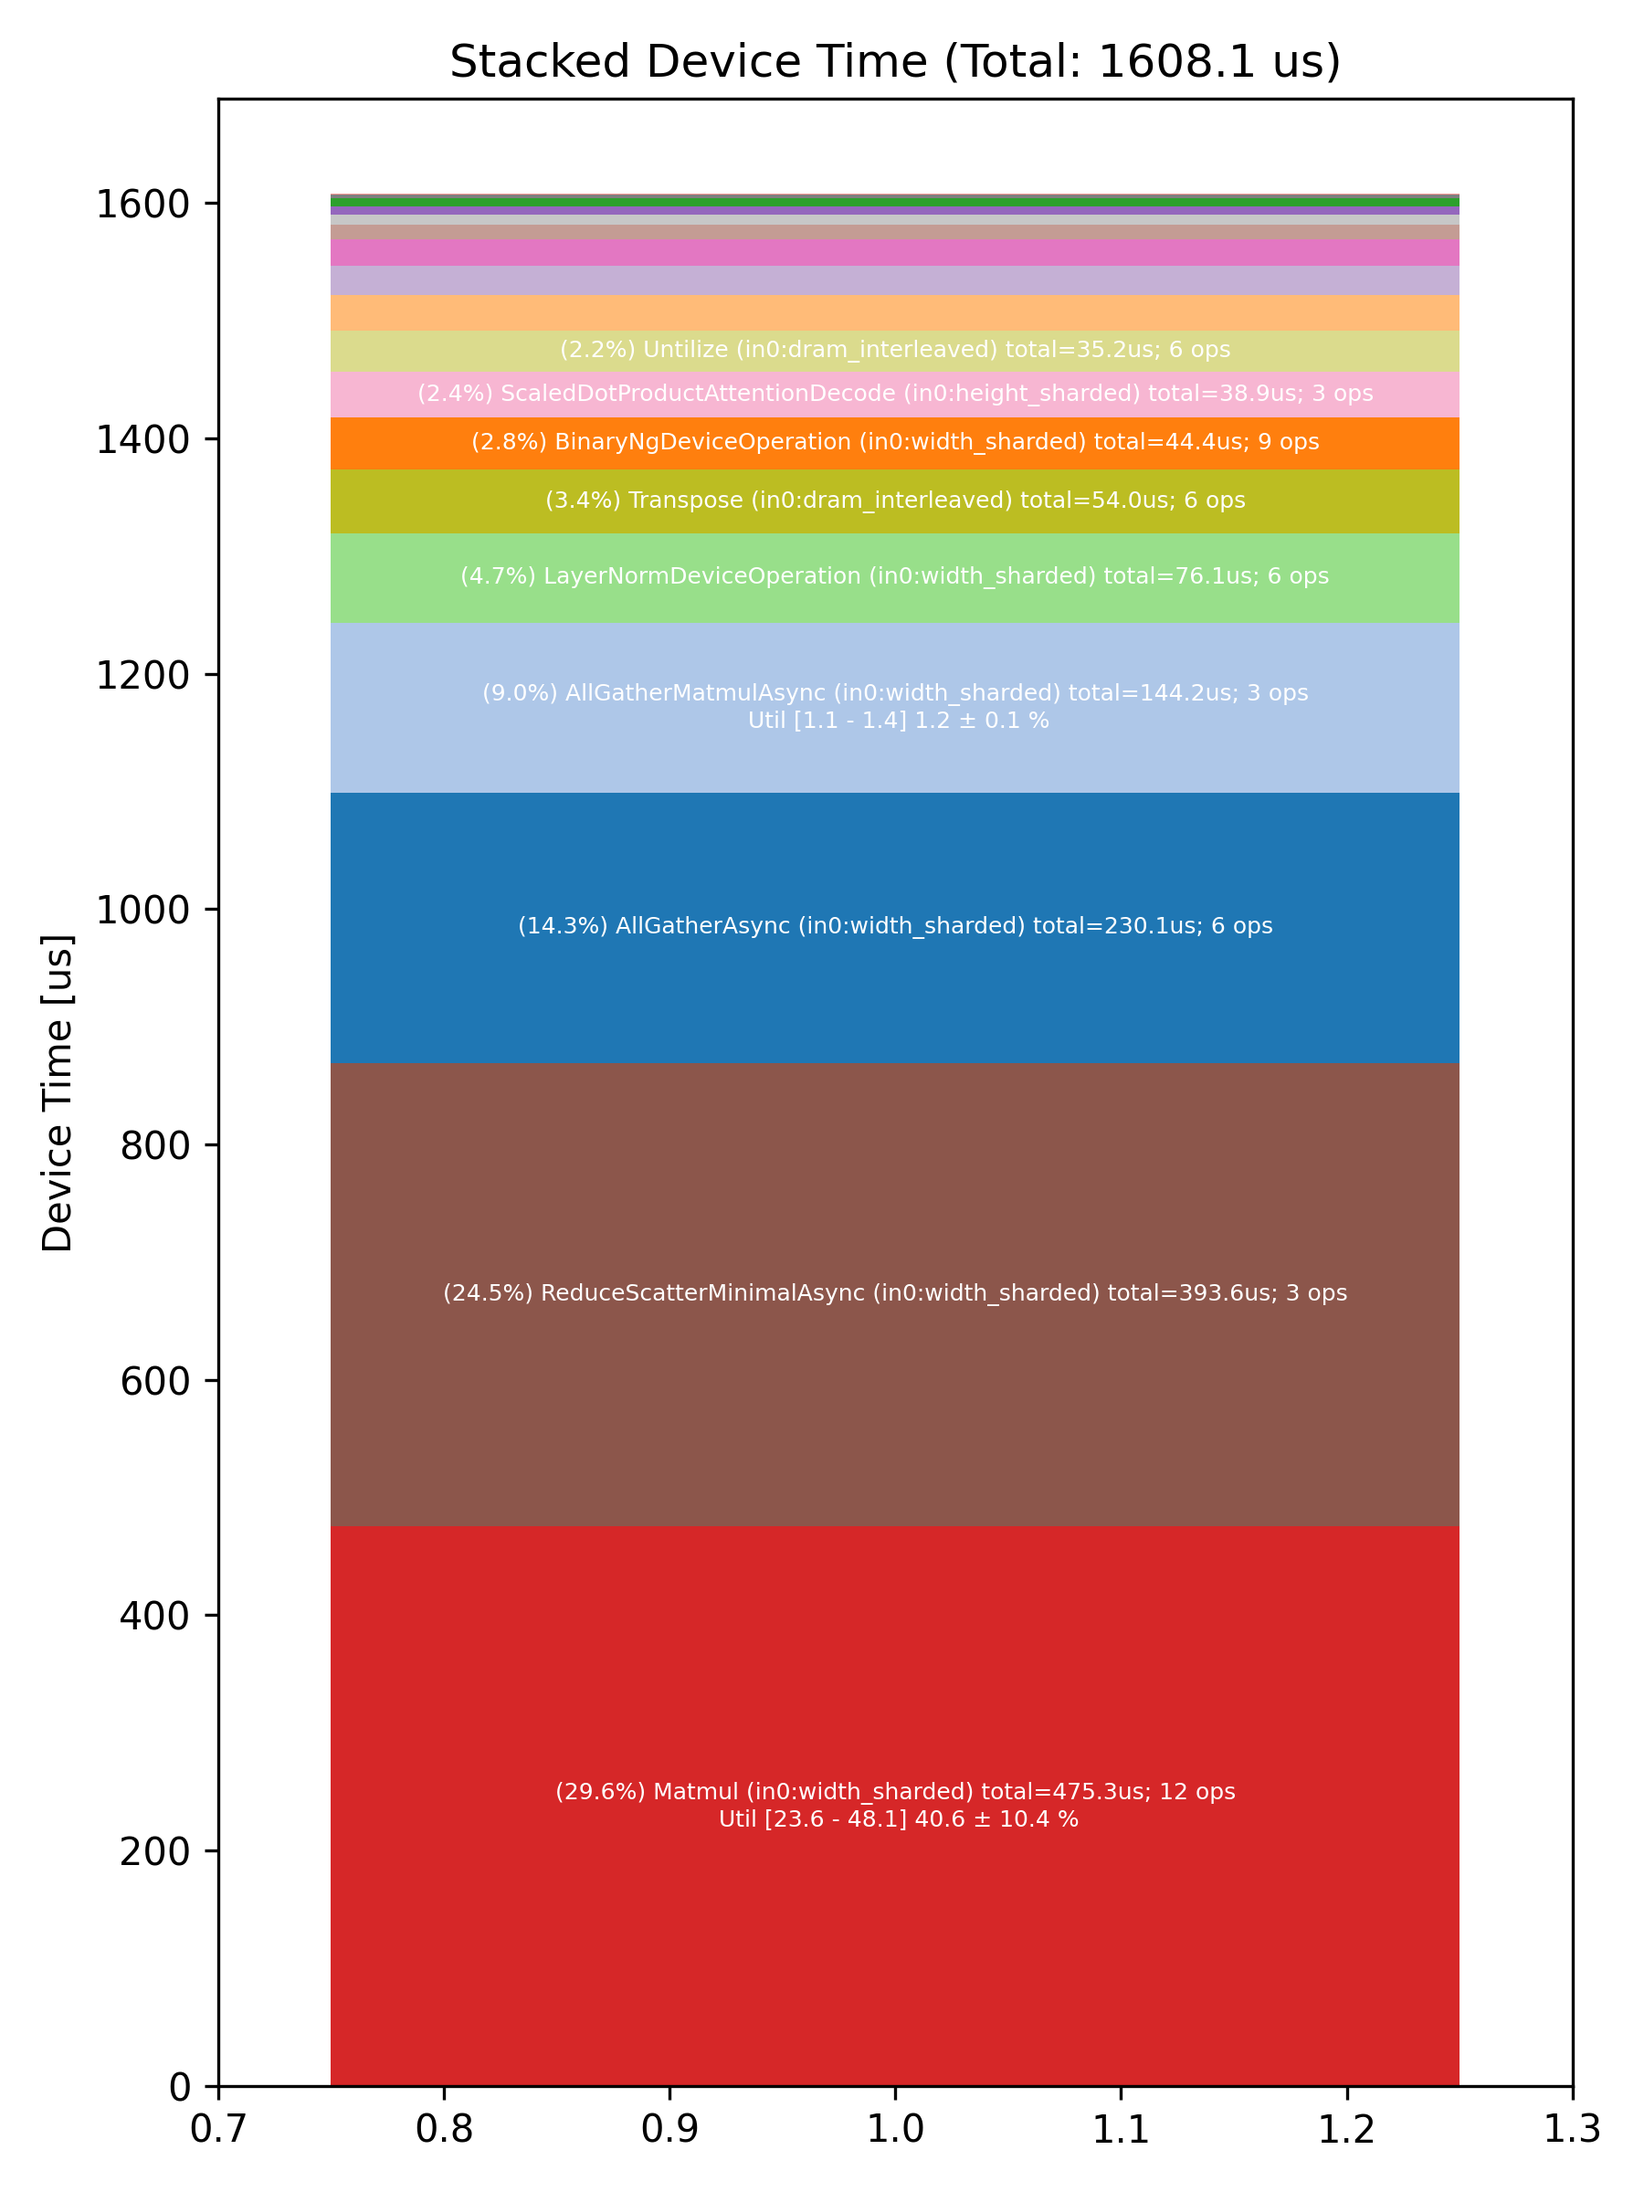
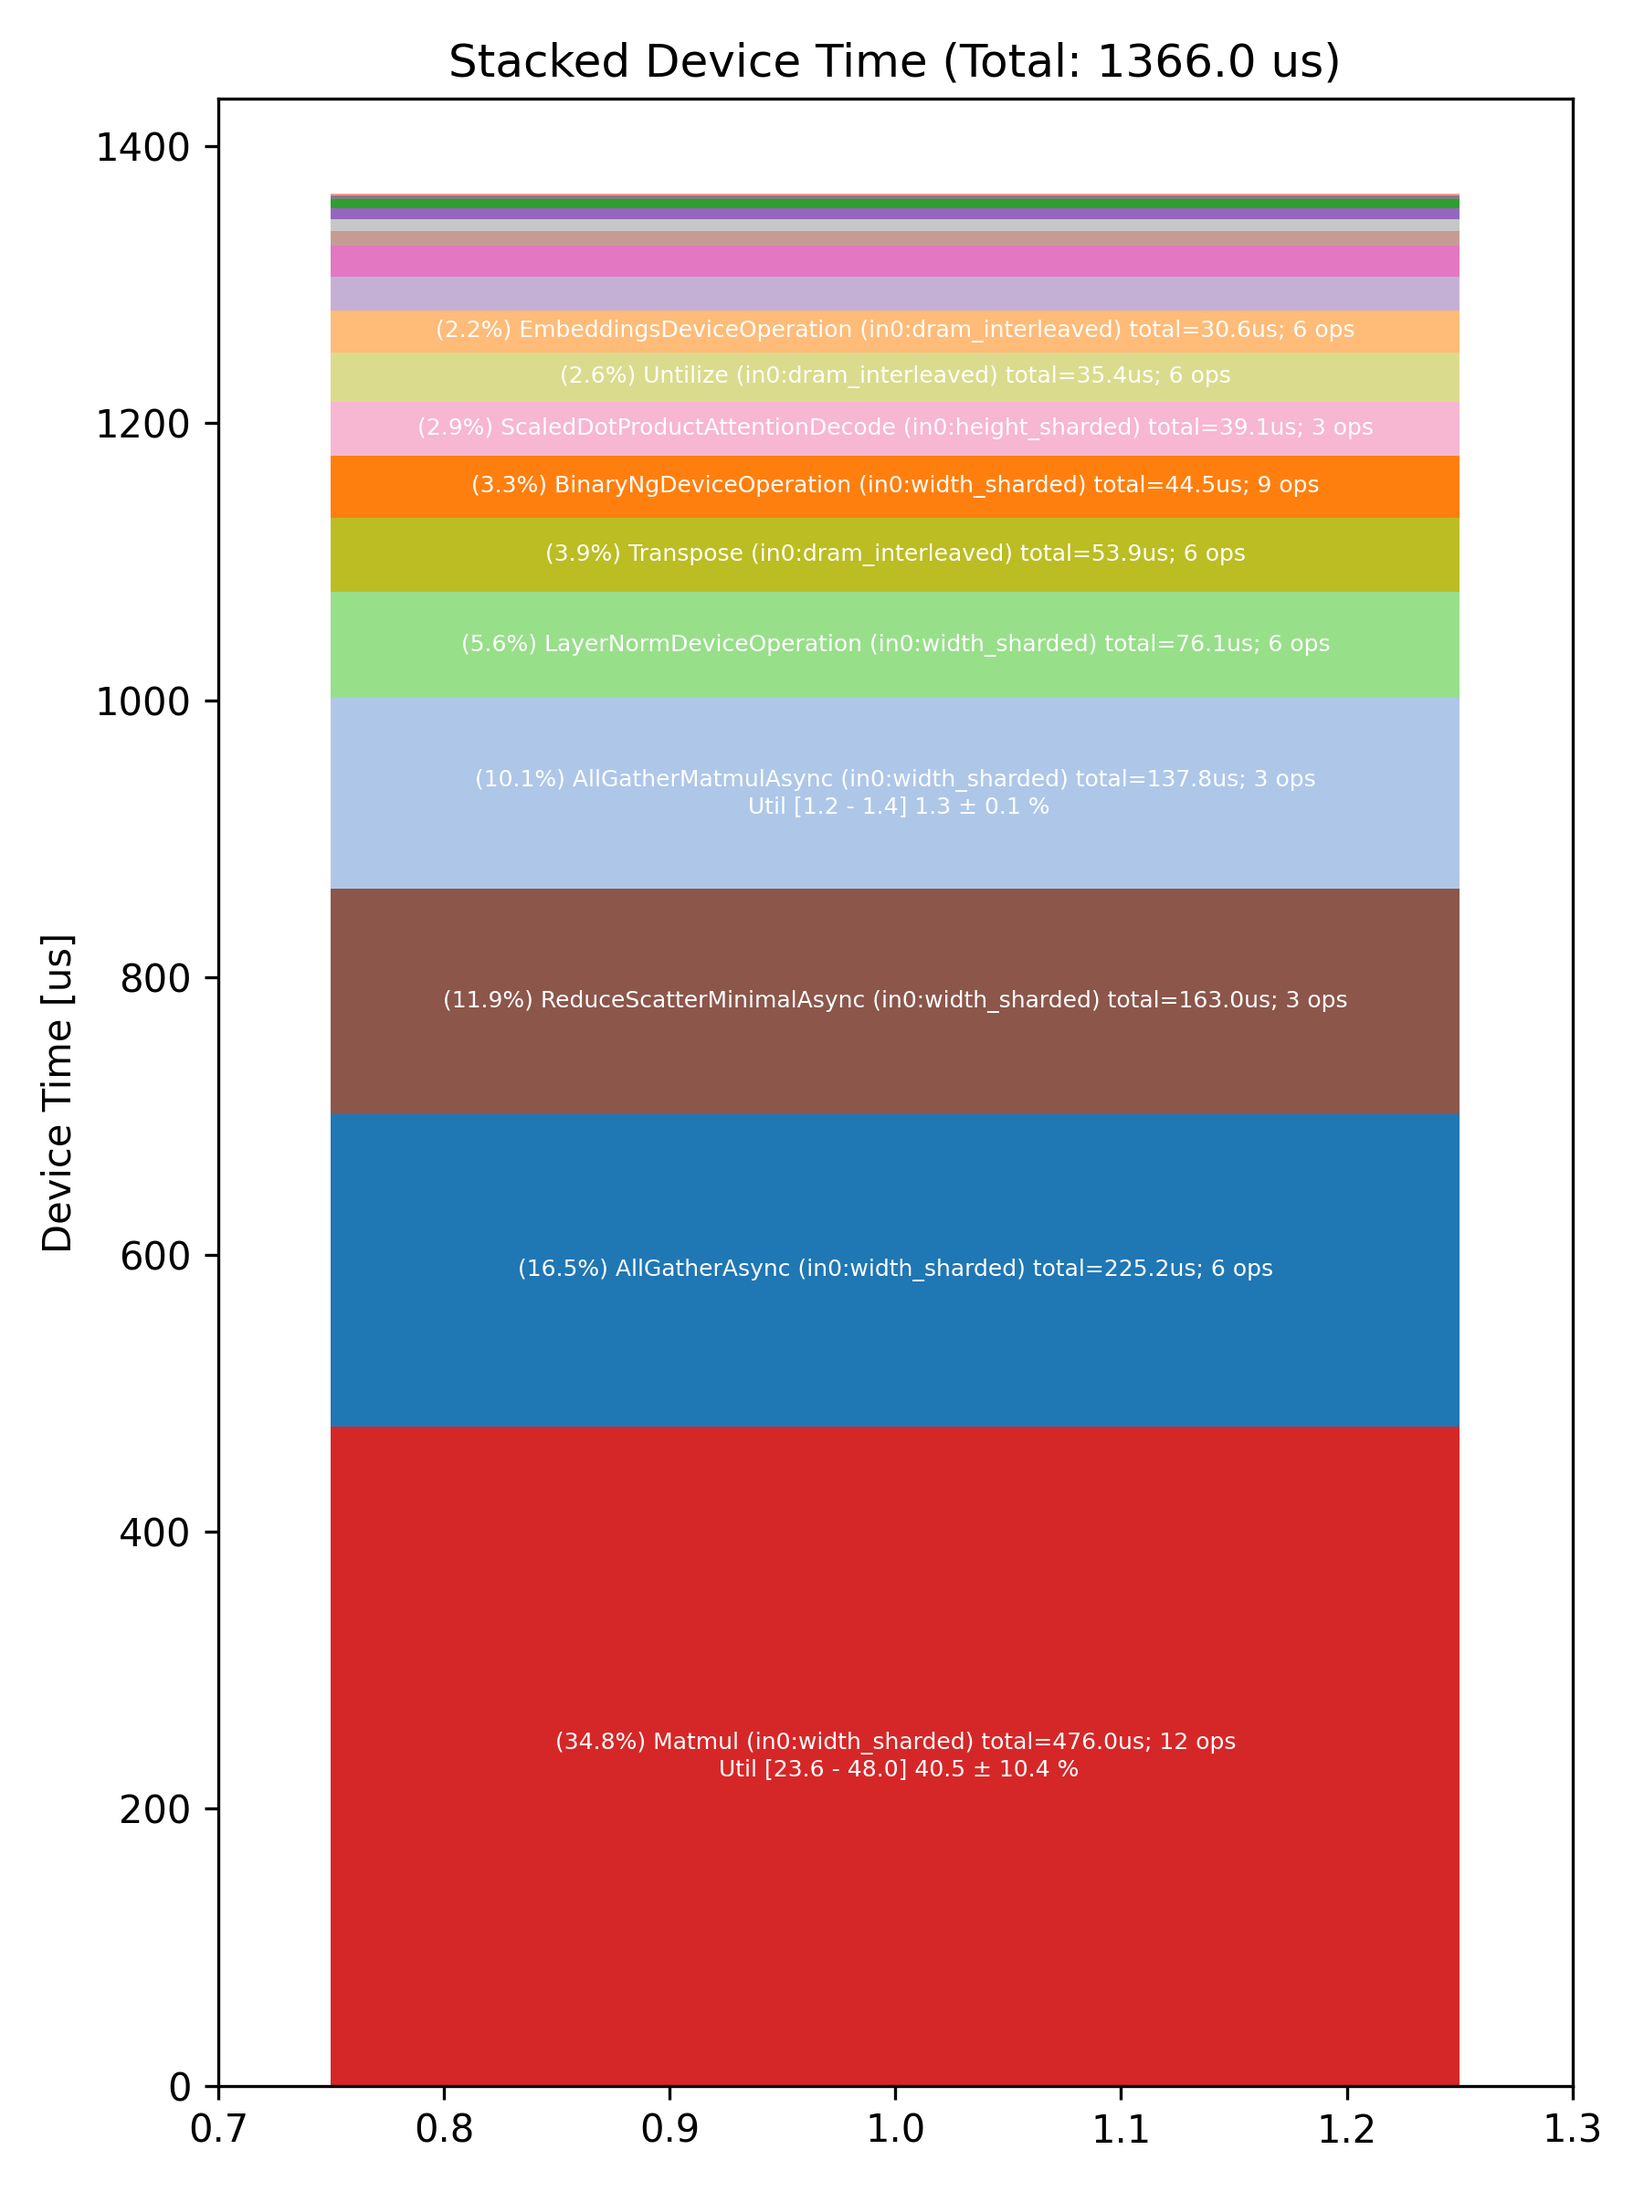
52, definetly better

diff --git a/models/tt_transformers/tt/ccl.py b/models/tt_transformers/tt/ccl.py
@@ -105,12 +105,12 @@ def tt_all_reduce(
             dim=dim,
             multi_device_global_semaphore=tt_ccl.get_and_cycle_rs_semaphore_handles(),
             barrier_semaphore=tt_ccl.get_and_cycle_barrier_semaphore_handle(),
-            num_links=num_reduce_scatter_links,
+            num_links=4,
             memory_config=memory_config,
-            intermediate_memory_config=ttnn.DRAM_MEMORY_CONFIG,
+            intermediate_memory_config=ttnn.L1_MEMORY_CONFIG,
             topology=topology,
             chunks_per_sync=10,
-            num_workers_per_link=2,
+            num_workers_per_link=1,
             num_buffers_per_channel=2,
         )
         input_tensor.deallocate(True)
